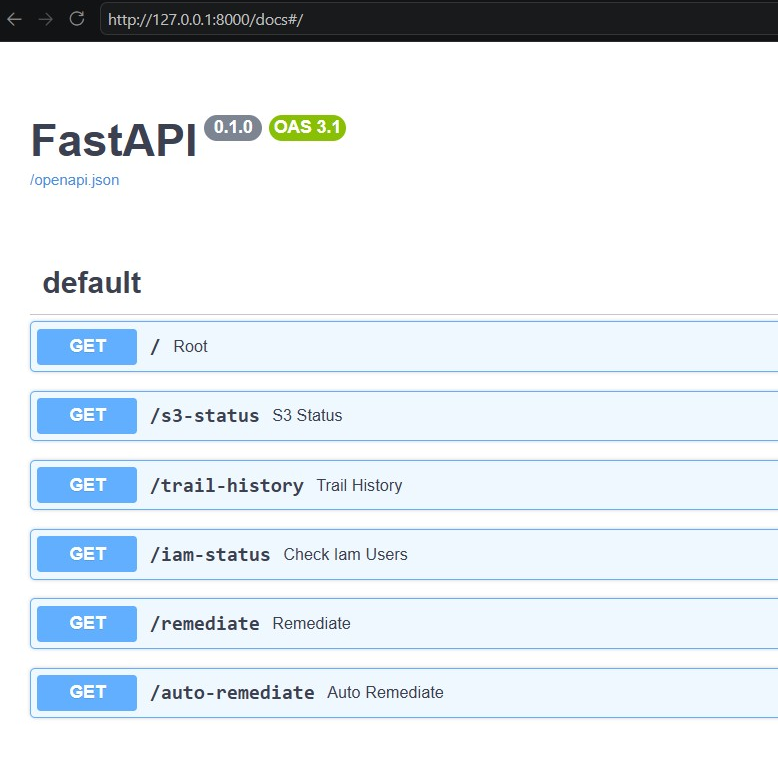
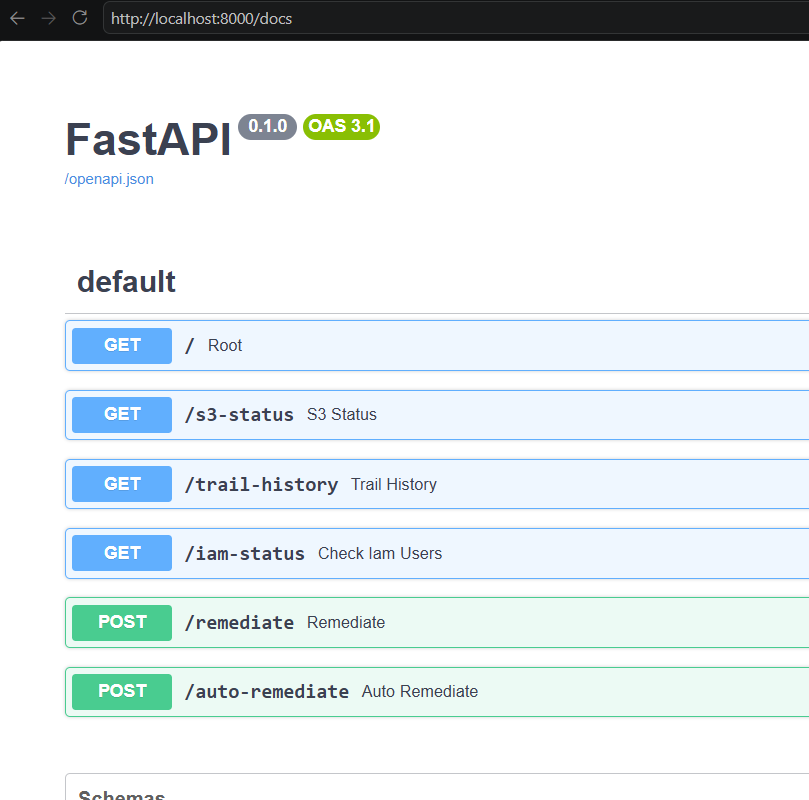
READM.md 이미지 첨부 및 변경 README.md 수정 main.py 상태변경 엔드포인트 (/remediate, /auto-remediate)를 POST로 변경 .gitignore 변경 .terraform.lock.hcl 업로드

diff --git a/main.py b/main.py
@@ -2,6 +2,14 @@ from fastapi import FastAPI
 import boto3
 import json
 from botocore.exceptions import ClientError
+from pydantic import BaseModel
+
+class RemediateRequest(BaseModel):
+    bucket_name: str
+    dry_run: bool = True
+
+class AutoRemediateRequest(BaseModel):
+    dry_run: bool = True
 
 app = FastAPI()
 s3 = boto3.client('s3')
@@ -119,17 +127,18 @@ def check_iam_users():
 
     return results
 
-@app.get("/remediate")
-def remediate(bucket_name: str, dry_run: bool = True):
-    if dry_run:
-        return {"bucket": bucket_name, "status": f"dry-run 여부 - {dry_run}"}
+@app.post("/remediate")
+def remediate(req: RemediateRequest):
     
-    if is_exempted(bucket_name):
-        return {"bucket": bucket_name, "status": "AllowPublic=true로 인해 제외됨"}
-    
+    if is_exempted(req.bucket_name):
+        return {"bucket": req.bucket_name, "status": "AllowPublic=true로 인해 제외됨"}
+
+    if req.dry_run:
+        return {"bucket": req.bucket_name, "status": "[dry-run] 퍼블릭 액세스 차단을 적용할 예정"}
+        
     try: 
         s3.put_public_access_block( #HTTP 상태 코드 등이 담긴 메타데이터만 반환
-            Bucket=bucket_name,
+            Bucket=req.bucket_name,
             PublicAccessBlockConfiguration={
                 'BlockPublicAcls': True,
                 'IgnorePublicAcls': True,
@@ -137,24 +146,26 @@ def remediate(bucket_name: str, dry_run: bool = True):
                 'RestrictPublicBuckets': True
             }
         )
-        return {"bucket": bucket_name, "status": "[퍼블릭 액세스 차단 적용된 상태]"}
+        return {"bucket": req.bucket_name, "status": "[퍼블릭 액세스 차단 적용된 상태]"}
 
     except ClientError as e:
         error_code = e.response["Error"]["Code"]
         if error_code == "AccessDenied":
-            return {"bucket": bucket_name, "status": f"접근 실패 - {error_code}"}
+            return {"bucket": req.bucket_name, "status": f"접근 실패 - {error_code}"}
         elif error_code == "NoSuchBucket":
-            return {"bucket": bucket_name, "status": "에러 - [버킷 없음]"}
+            return {"bucket": req.bucket_name, "status": "에러 - [버킷 없음]"}
+        else:
+            return {"bucket": req.bucket_name, "status": f"에러 - {error_code}"}
 
-@app.get("/auto-remediate")
-def auto_remediate(dry_run: bool = True):
+@app.post("/auto-remediate")
+def auto_remediate(req: AutoRemediateRequest):
 
     status_results = s3_status()
     
     actions = []
     for item in status_results:
         if "허용됨" in item["status"] or "설정 없음" in item["status"]:  # 위험 조건
-            result = remediate(item["bucket"], dry_run=dry_run)
+            result = remediate(RemediateRequest(bucket_name=item["bucket"], dry_run=req.dry_run))
             actions.append(result)
     
     return actions
